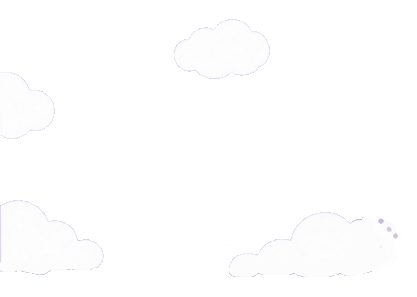
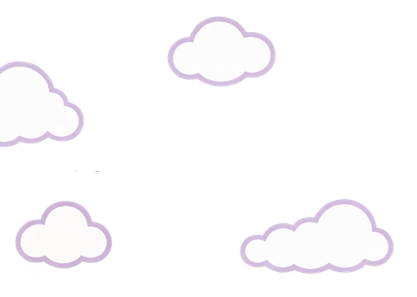
Refactor code structure for improved readability and maintainability

diff --git a/apps/web/girls_sidebar_art.css b/apps/web/girls_sidebar_art.css
@@ -1,17 +1,22 @@
 /* Authenticated Girls sidebar artwork.
    header.png contains only the cloud decoration. lace.png owns the whole
    left/right boundary from top to bottom. */
+.girls-portal-shell {
+  --girls-sidebar-width: 224px;
+  grid-template-columns: var(--girls-sidebar-width) minmax(0, 1fr);
+}
+
 .girls-portal-shell .portal-shell-sidebar {
-  /* Desktop sidebar is 248px wide. The PNG includes the lavender up to its
-     scalloped edge, so nothing should paint underneath the lace strip. */
-  --girls-sidebar-lace-width: 35px;
-  --girls-sidebar-header-height: 164px;
+  --girls-sidebar-lace-width: 32px;
+  --girls-sidebar-lace-overlap: 2px;
+  --girls-sidebar-header-height: 148px;
 
   padding-top: calc(var(--girls-sidebar-header-height) + 10px);
-  padding-right: 44px;
+  padding-right: calc(var(--girls-sidebar-lace-width) + 9px);
 
-  /* Restrict the header and solid fill to the left of the lace. Its alpha then
-     reveals the actual page (or mobile scrim), rather than a cream rectangle.
+  /* Overlap the lavender fill beneath only the lace's inner edge: that edge has
+     partly transparent pixels and can otherwise reveal a seam when zoomed.
+     The outer scallops still reveal the actual page (or mobile scrim).
      Repeat the lace on the scrolling sidebar itself so short screens also
      retain the edge when the navigation is scrolled. */
   background:
@@ -19,8 +24,8 @@
     url("/girls-assets/sidebar/header.png") left top / calc(100% - var(--girls-sidebar-lace-width)) auto no-repeat,
     linear-gradient(
       to right,
-      #cbb5d7 0 calc(100% - var(--girls-sidebar-lace-width)),
-      transparent calc(100% - var(--girls-sidebar-lace-width)) 100%
+      #cab4d7 0 calc(100% - var(--girls-sidebar-lace-width) + var(--girls-sidebar-lace-overlap)),
+      transparent calc(100% - var(--girls-sidebar-lace-width) + var(--girls-sidebar-lace-overlap)) 100%
     );
   box-shadow: none;
 }
@@ -35,10 +40,10 @@
   content: "";
   position: absolute;
   z-index: 2;
-  top: 36px;
-  left: 24px;
-  width: min(62%, 154px);
-  height: 88px;
+  top: 0px;
+  left: 14px;
+  width: min(82%, 180px);
+  height: 160px;
   background: url("/girls-assets/logo.png") left center / contain no-repeat;
   pointer-events: none;
 }
@@ -49,15 +54,23 @@
   z-index: 2;
 }
 
-@media (max-width: 900px) {
-  .girls-portal-shell .portal-shell-sidebar {
-    /* Mobile sidebar width is min(310px, 100vw - 46px). Scale the lace and
-       reserved header space with that width. */
-    --girls-sidebar-lace-width: min(44px, calc(14.113vw - 6.492px));
-    --girls-sidebar-header-height: min(205px, calc(66.198vw - 30.451px));
+.girls-portal-shell .portal-shell-nav-item {
+  /* Girls menu items have an icon and label, without a third badge column. */
+  grid-template-columns: 28px minmax(0, 1fr);
+}
 
+@media (max-width: 900px) {
+  .girls-portal-shell {
+    --girls-sidebar-width: min(280px, calc(100vw - 46px));
+  }
+
+  .girls-portal-shell .portal-shell-sidebar {
+    /* Scale the artwork with the narrower mobile drawer. */
+    --girls-sidebar-lace-width: calc(var(--girls-sidebar-width) / 7);
+    --girls-sidebar-header-height: calc(var(--girls-sidebar-width) * 37 / 56);
+
+    width: var(--girls-sidebar-width);
     padding-top: calc(var(--girls-sidebar-header-height) + 10px);
-    padding-right: calc(var(--girls-sidebar-lace-width) + 9px);
   }
 
   .girls-portal-shell .portal-shell-sidebar::before {
